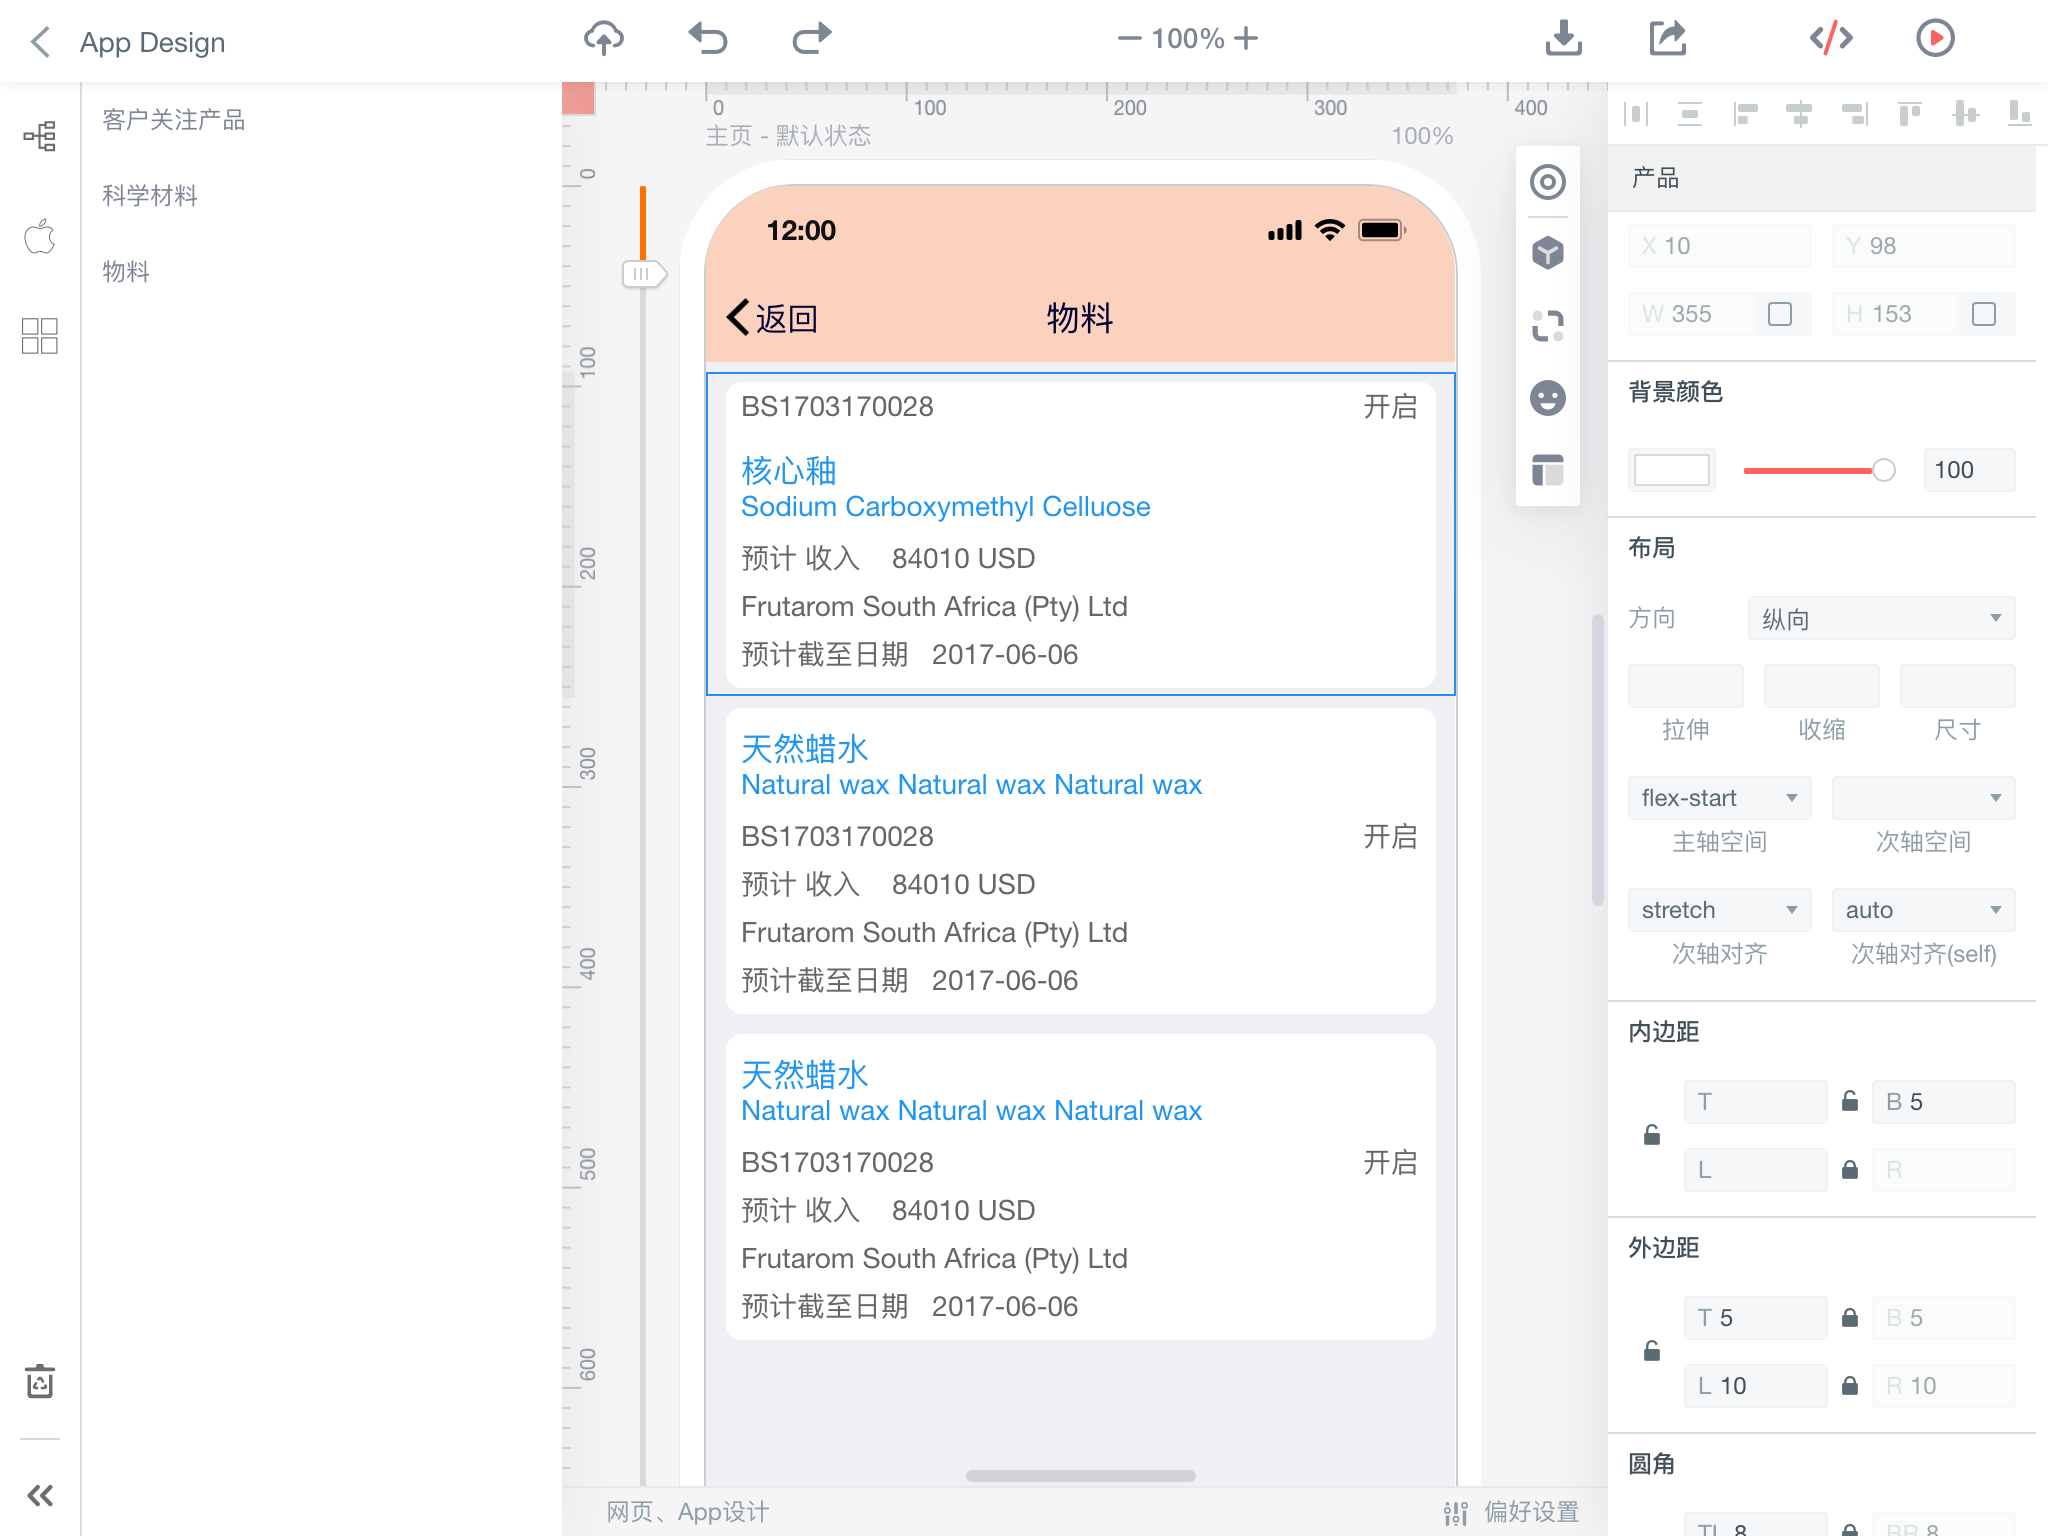
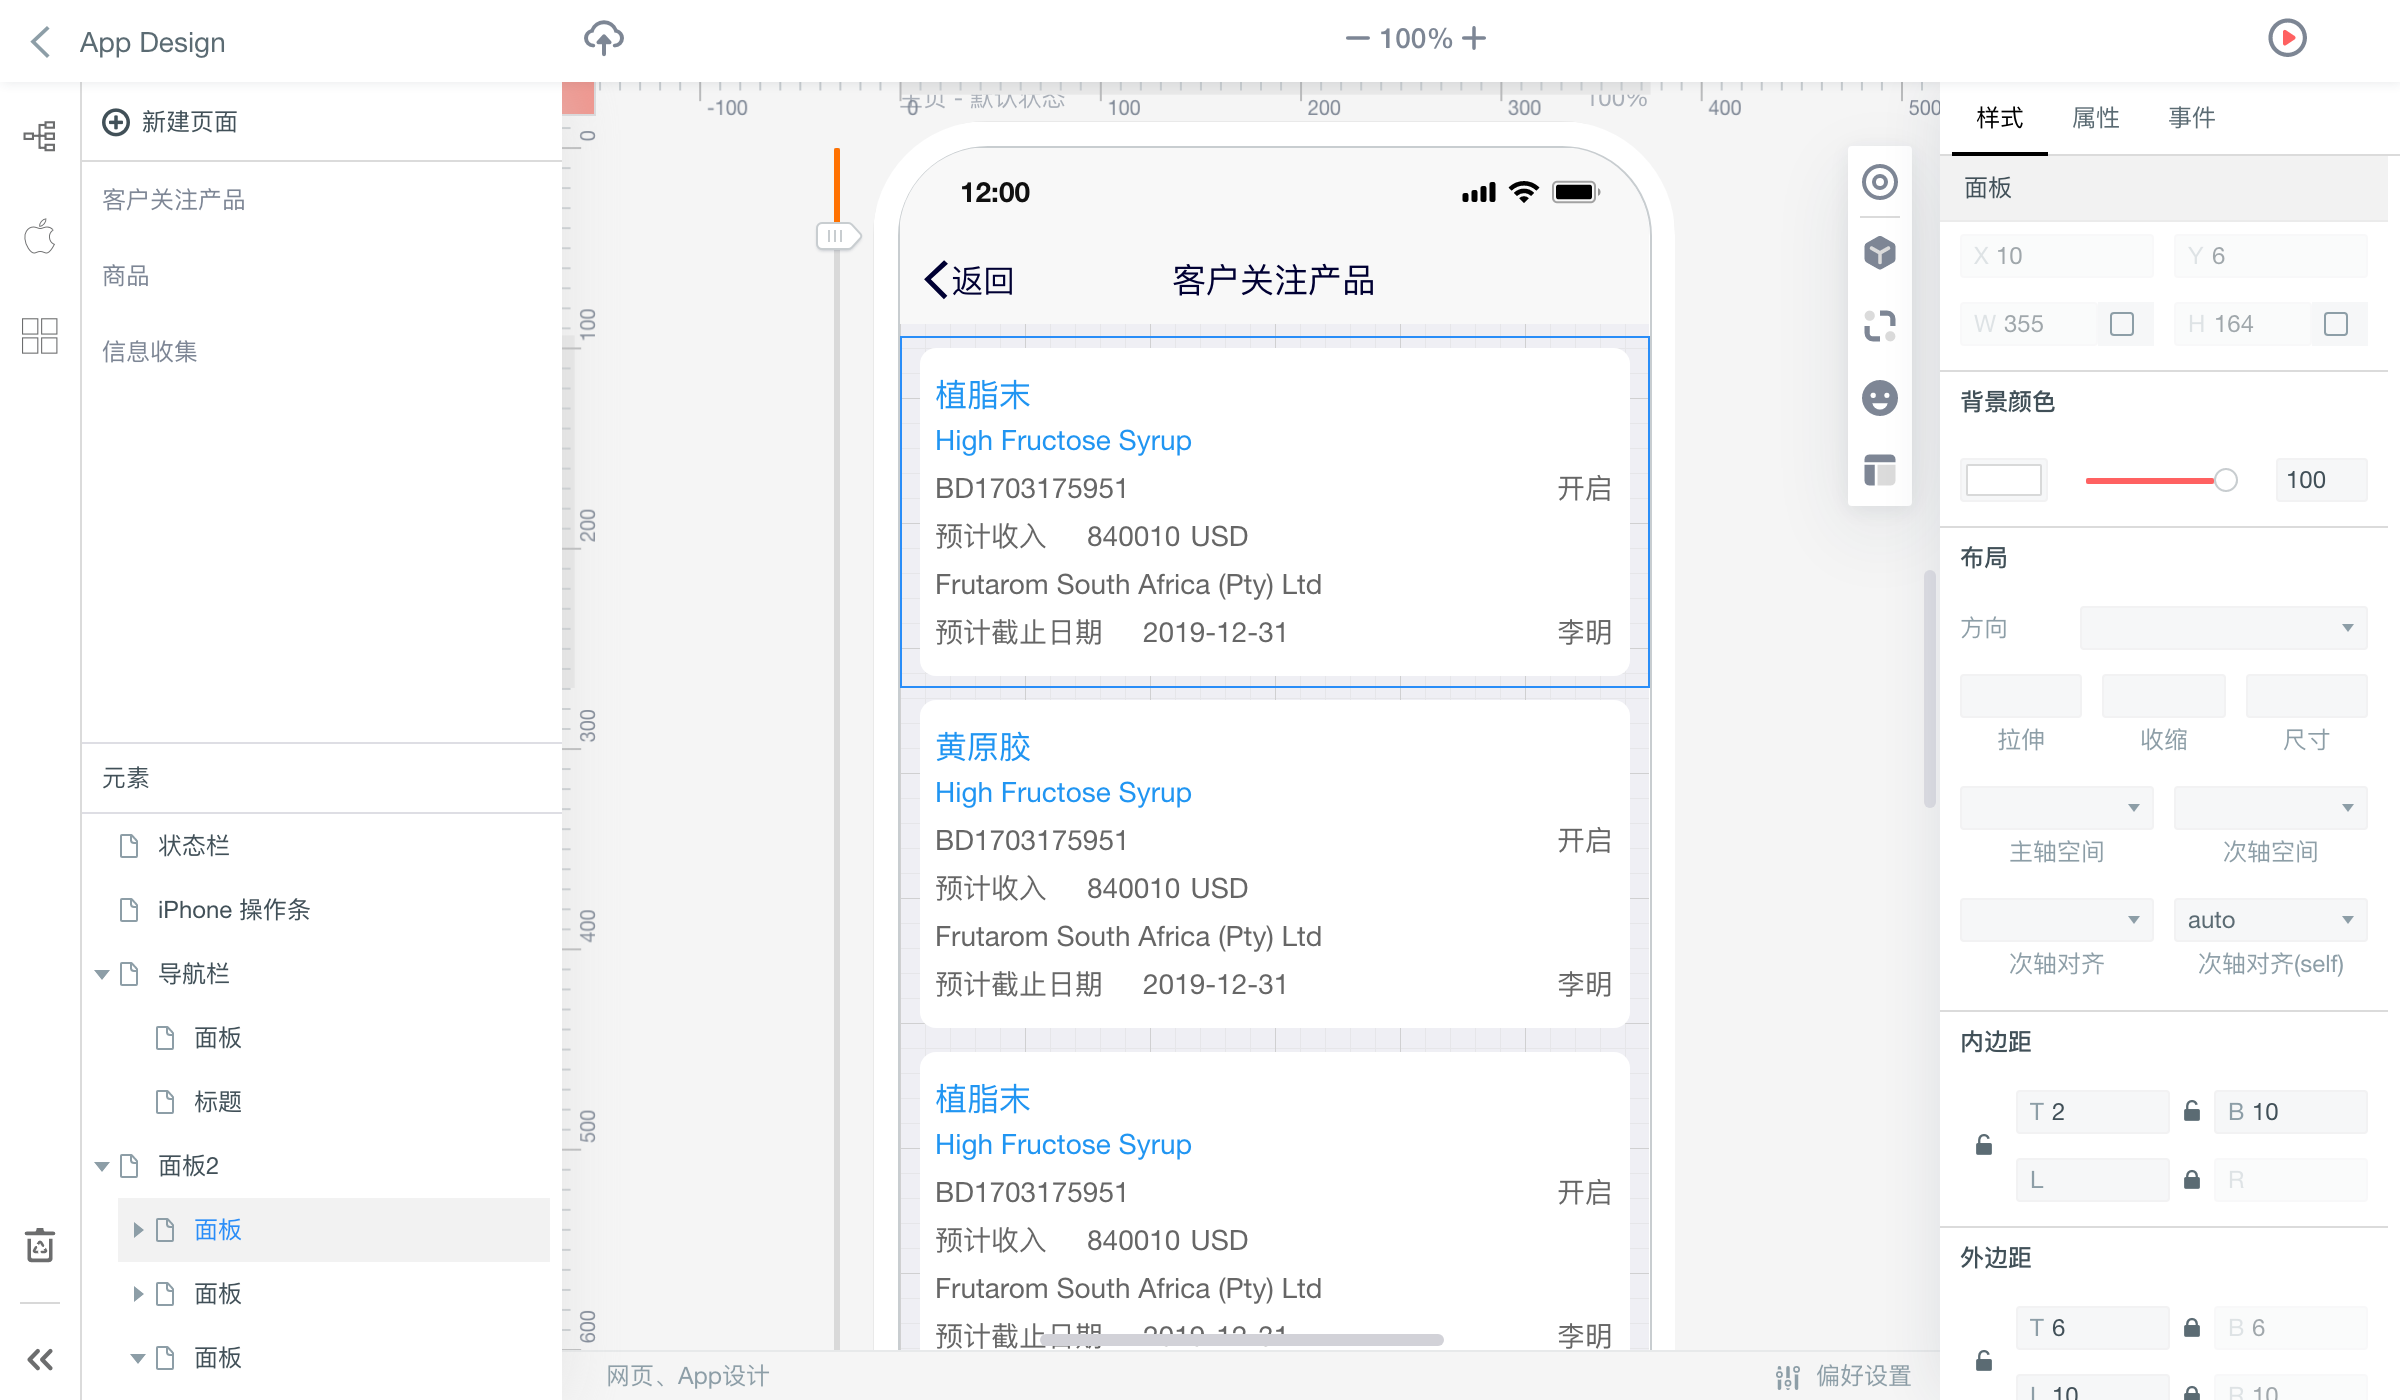
widget tree

diff --git a/modules/fr-design/src/pages/design/store/StructureStore.jsx b/modules/fr-design/src/pages/design/store/StructureStore.jsx
@@ -11,6 +11,7 @@ import {action, observable} from "mobx";
 export class StructureStore extends BaseStore {
 
     @observable structureData = [];
+    @observable structureExpendKeys = [];
 
     constructor(props) {
         super(props);
@@ -33,6 +34,7 @@ export class StructureStore extends BaseStore {
     @action
     initRoot(rootWidget) {
         const that = this;
+        that.structureExpendKeys = [];
         that.upStructureData(rootWidget);
     }
 
@@ -48,12 +50,57 @@ export class StructureStore extends BaseStore {
             for (const [key, value] of widgets) {
                 value && data.push({
                     key,
+                    icon: null,
                     title: value.getName(),
                     children: map(value.childrenMap)
                 });
             }
             return data;
         };
-        that.structureData = map(rootWidget.childrenMap);
+        const data = map(rootWidget.childrenMap);
+        if (!that.structureExpendKeys.length) {
+            that.structureExpendKeys = data.map(da => da.key);
+        }
+        that.structureData = data;
+    }
+
+    @action
+    onStructureExpand = (expandedKeys) => {
+        this.structureExpendKeys = expandedKeys;
+    };
+
+    /**
+     * widget 被点击
+     * @param selectedKeys
+     */
+    onStructureSelect = (selectedKeys) => {
+        const that = this;
+        const [widgetId] = selectedKeys;
+        const {viewGroup} = that.main;
+        const widget = viewGroup.findWidget(widgetId);
+        widget && viewGroup.setSelectWidget(widget)
+    };
+
+    /**
+     * widget 鼠标移入
+     * @param event
+     * @param node
+     */
+    onStructureMouseEnter = ({event, node}) => {
+        const that = this;
+        const {eventKey: widgetId} = node.props;
+        const {viewGroup} = that.main;
+        const widget = viewGroup.findWidget(widgetId);
+        widget && viewGroup.setHoverWidget(widget);
+    };
+
+    /**
+     * widget 鼠标移除
+     * @param event
+     * @param node
+     */
+    onStructureMouseLeave = ({event, node}) => {
+        const {viewGroup} = this.main;
+        viewGroup.cancelHove();
     }
 }

diff --git a/modules/fr-design/src/pages/design/store/ViewGroupStore.js b/modules/fr-design/src/pages/design/store/ViewGroupStore.js
@@ -162,7 +162,8 @@ export class ViewGroupStore extends BaseStore {
     @action
     setSelectWidget = (widget?: BaseWidget) => {
         let that = this;
-        if (widget !== that.widget) {
+        if (widget && widget !== that.widget) {
+            that.setSelectBox(widget.widget);
             widget.onUpdate = that._reWidgetSelectBox;
             that.main.widgets.setWidgetStates(widget.getWidgetStates(), widget.getStateId());
             that.widget = widget;
@@ -302,7 +303,7 @@ export class ViewGroupStore extends BaseStore {
     _eachWidgetEnter = () => {
         const that = this;
         let lastWidget = that.getMouseWidgetSelect(that.widgetList2);
-        lastWidget && that._handleMouseEnter(lastWidget);
+        lastWidget && that.setHoverWidget(lastWidget);
         that.widgetList2 = [];
     };
 
@@ -322,7 +323,7 @@ export class ViewGroupStore extends BaseStore {
     }
 
     @action
-    _handleMouseEnter = (widget: BaseWidget) => {
+    setHoverWidget = (widget: BaseWidget) => {
         const that = this;
         if (!that.rootWidget) return;
         const rootRect = that.rootWidget.widget.getBoundingClientRect();
@@ -369,8 +370,6 @@ export class ViewGroupStore extends BaseStore {
             // text panel header
             let lastWidget = that.getMouseWidgetSelect(that.widgetList);
             if (lastWidget) {
-                // 设置选框
-                that.setSelectBox(lastWidget.widget);
                 that.setSelectWidget(lastWidget);
             }
         } else {
@@ -514,7 +513,7 @@ export class ViewGroupStore extends BaseStore {
      */
     findWidget(widgetId) {
         const that = this;
-        if (!that.rootWidget) return null;
+        if (!widgetId || !that.rootWidget) return null;
         if (widgetId === that.rootWidget.getId()) return that.rootWidget;
         const widget = that.widgetMap.get(widgetId);
         return widget && widget.target;

diff --git a/modules/fr-design/src/pages/design/view/Structure.jsx b/modules/fr-design/src/pages/design/view/Structure.jsx
@@ -21,7 +21,7 @@ export class Structure extends React.Component<Props, State> {
         if (children.length) {
             return (
                 <a className={"expander"}>
-                    <IBotSVG icon={SVG.arrow_right} className={classNames({expanded})}/>
+                    <IBotSVG icon={SVG.arrow_right2} className={classNames({expanded})}/>
                 </a>
             )
         }
@@ -35,7 +35,12 @@ export class Structure extends React.Component<Props, State> {
             main: {
                 config: {isApp}
             },
-            structureData
+            structureData,
+            onStructureExpand,
+            onStructureSelect,
+            onStructureMouseEnter,
+            onStructureMouseLeave,
+            structureExpendKeys,
         } = this.props.store;
         const pages = isApp
             ? [
@@ -76,6 +81,11 @@ export class Structure extends React.Component<Props, State> {
                         </header>
                         <div className={'structure-list'}>
                             <Tree
+                                onMouseEnter={onStructureMouseEnter}
+                                onMouseLeave={onStructureMouseLeave}
+                                onSelect={onStructureSelect}
+                                expandedKeys={structureExpendKeys}
+                                onExpand={onStructureExpand}
                                 switcherIcon={that.switcherIcon}
                                 icon={<IBotSVG icon={SVG.file}/>}
                                 defaultExpandParent={true}

diff --git a/modules/fr-design/src/widget/mobile/BottomOperateBar.jsx b/modules/fr-design/src/widget/mobile/BottomOperateBar.jsx
@@ -30,7 +30,7 @@ export class BottomOperateBar extends BaseWidget<Props> {
         const height = designRect.bottom;
 
         return (
-            <div className="group-item" style={{bottom: 0, width, height}} data-cid={cid}>
+            <div className="group-item" style={{bottom: 0, width, height}} data-cid={cid} ref={this.widgetRef}>
                 <div
                     className="widget operate_bar hcenter vmiddle iphone_x_operate_bar"
                     style={{width, height}}
